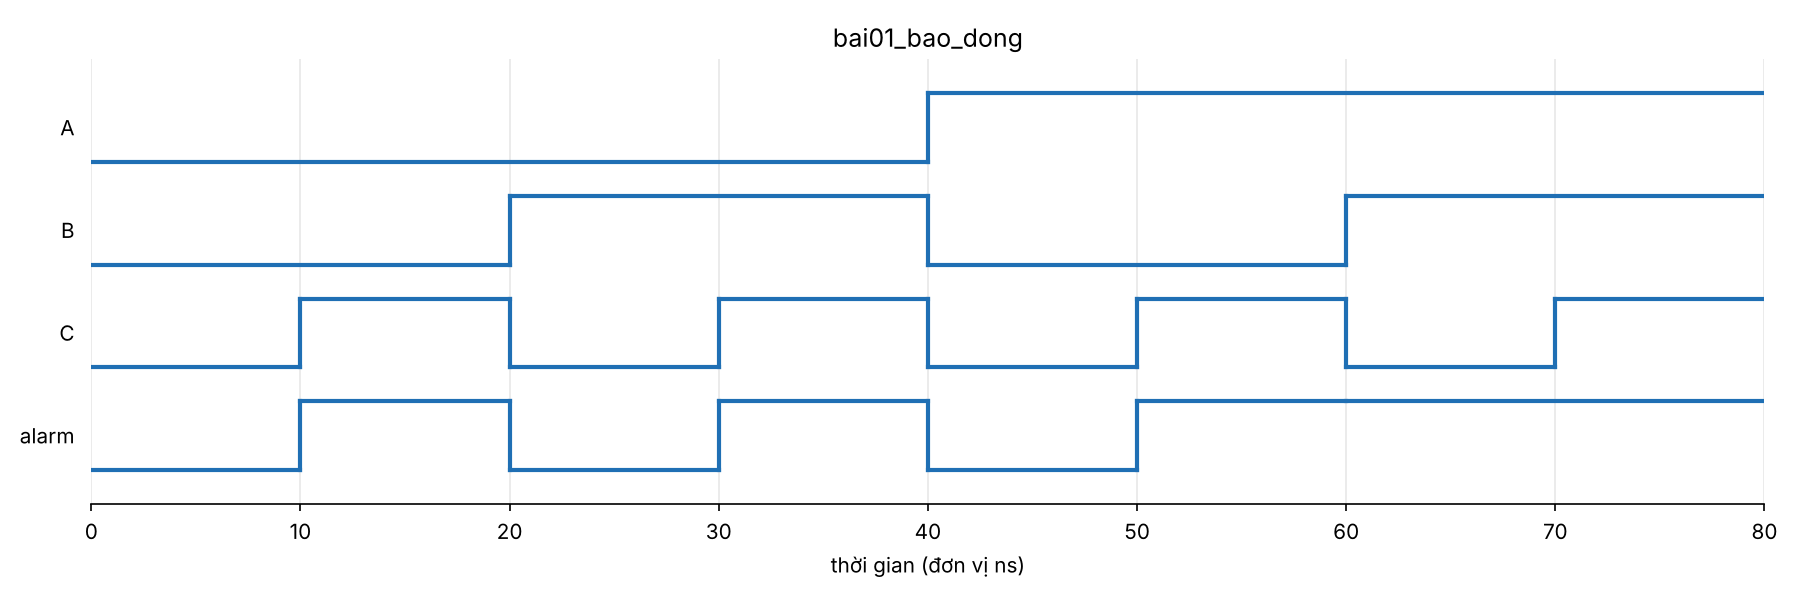
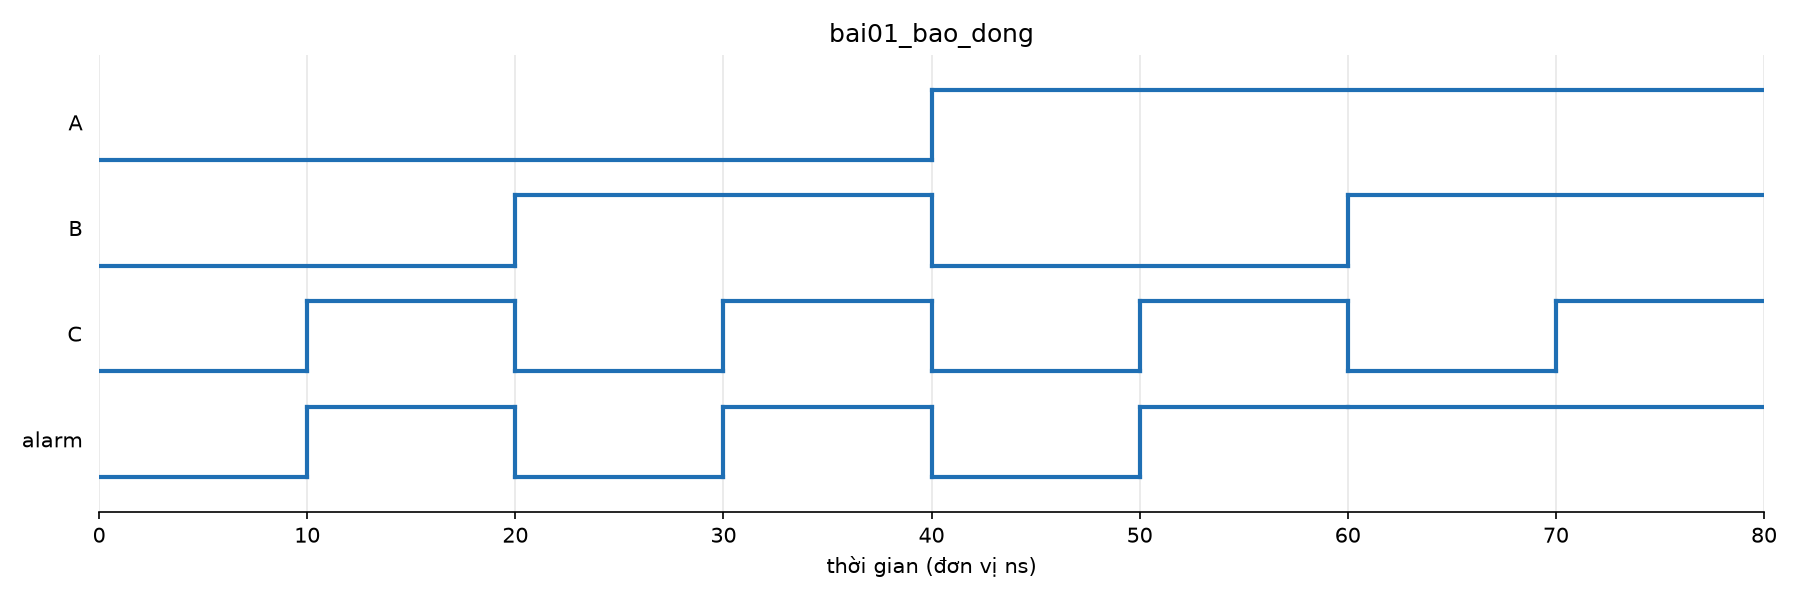
docs: cập nhật instructions 10/11 (phần Vi mạch, lịch học); song bài 1 chạy trên Mac

diff --git a/docs/project-instructions.md b/docs/project-instructions.md
@@ -14,6 +14,9 @@
 - **Vivado không cài được trên Mac M2** (chỉ có bản x86 Windows/Linux). MacBook Air M2, SSD 256 GB, trống 28 GiB
   (03/11). RTL + mô phỏng làm trên Mac bằng Icarus Verilog/Verilator; synthesis/nạp board dùng máy x86 hoặc Docker.
   Phương án đầy đủ: mục 5 của `reports/report-dot2-tuan01-20261104.md`.
+- **Công cụ RTL đã cài (10/11):** Icarus Verilog 13 + Surfer 0.7 (brew). Chạy bài: `./chay.sh <thư mục bài>` trong
+  `rtl/bai-tap-nhap-mon/`. Chưa cài Yosys. **Đang là prelab, chưa vào lab: mọi việc làm trên máy cá nhân**, không có
+  máy lab để cài Vivado. Mua SSD ngoài / Docker Vivado: **hoãn**, chờ Thầy cho biết khi nào bắt buộc cần Vivado.
 
 ## Thầy đã chốt — đừng hỏi lại, đừng làm ngược
 1. **Chưa cần tối ưu accuracy.** Không có ngưỡng phải đạt. 98,82% là chấp nhận được.
@@ -35,10 +38,11 @@ Gốc có 13 file `.py` + roadmap v3 + `.gitignore`. Còn lại nằm trong thư
 | `params/` | `weights.txt` (4.968) + `biases.txt` (50) + README bảng offset — **sinh tự động, không sửa tay** |
 | `golden/` | Ảnh mẫu + đầu ra PyTorch từng lớp + logit cả test set — chuẩn để so Python/C |
 | `golden_c/` | **Golden model C float32** `golden_model.c` + **int8** `golden_int8.c` + README. File chạy được không commit |
-| `docs/` | slide + 2 file Word nộp Thầy + ghi chú gặp Thầy + `tong-hop-video-thay.md` + **`on-tap-flow-7-buoc.md`** (tài liệu ôn theo slide 7 bước, 11 bài tính tay) + file này. `tien-do-on-tap.md` chỉ có trong Project |
+| `docs/` | slide + 2 file Word nộp Thầy + ghi chú gặp Thầy + `tong-hop-video-thay.md` + **`on-tap-flow-7-buoc.md`** (tài liệu ôn theo slide 7 bước, 11 bài tính tay) + **`on-tap-int8-ptq-qat-c.md`** (ôn PTQ/QAT/golden C int8, có tự kiểm + đáp án) + file này. `tien-do-on-tap.md` chỉ có trong Project |
 | `operators/` | README index + 6 file operator (công thức, mã giả, bẫy port C) |
 | `PDF/` | Bản in của `operators/*.md`, sinh bằng `tools/xuat_pdf.py` — sửa `.md` rồi chạy lại |
 | `reports/` | report tuần 1–6 (đợt 1) + đợt 2 tuần 1 (`report-dot2-tuan01-20261104.md`) |
+| `rtl/bai-tap-nhap-mon/` | 10 bài nhập môn Verilog Thầy giao 07/11. Mỗi bài 1 thư mục: RTL, testbench tự kiểm PASS/FAIL, `report.md`, `song.png`. `chay.sh` + `tools/ve_song.py` (VCD → PNG). `sim`, `*.vcd` không commit |
 | `study/` | bài tập tự luyện + script khảo sát, KHÔNG nộp |
 | `tools/` | `xuat_pdf.py` — sinh PDF từ `operators/*.md` |
 | `archive/`, `audio/`, `data/` | roadmap cũ, file NotebookLM, MNIST |
@@ -68,7 +72,7 @@ vào `sys.path` + `os.chdir` nên chạy ở đâu cũng được. Comment và c
 | `study/kiem_tra_tinh_tay.py` | Đáp án 11 bài tính tay của `docs/on-tap-flow-7-buoc.md` |
 | `study/tra-cuu-smallcnn.xlsx` | Excel tra cứu 1 điểm mọi lớp: địa chỉ in/w, dòng trong file txt, acc cộng dồn, so PyTorch |
 
-## Trạng thái (cập nhật 03/11/2026)
+## Trạng thái (cập nhật 10/11/2026)
 - **Kiến trúc đã CHỐT: `SmallCNN` — 5.018 params, test acc 98,82%.** (DigitCNN cũ: 206.922
   params, 99,05% — giữ làm mốc. Giảm 41,2 lần.)
 - Phase 1 ✅ validation set 50k/10k/10k, checkpoint theo best val acc.
@@ -95,7 +99,16 @@ vào `sys.path` + `os.chdir` nên chạy ở đâu cũng được. Comment và c
 - ✅ `study/tra-cuu-smallcnn.xlsx` — tra cứu 1 điểm conv1/conv2/conv3/maxpool/fc + argmax bằng số thật,
   có số dòng trong file txt; khớp PyTorch. Dùng để tự kiểm bài tính tay.
 - Đợt 2 bắt đầu 01/11. Báo cáo 04/11: `reports/report-dot2-tuan01-20261104.md`.
-- Chưa làm: RTL (bước tiếp theo, bắt đầu từ khối requantize); QAT nhiều seed + đối chứng QAT (từ tuần 6);
+- ✅ **GitHub đã đồng bộ (10/11)**: commit `fd4666a` (INT8, golden C int8, report, Bài 1) + `e1848b7`. Repo sạch.
+- **Đang ở: phần Vi mạch (IC).** 07/11 Thầy giao 10 bài nhập môn Verilog, deadline ≤ 1 tuần, mỗi bài có report +
+  "học được gì", **làm chậm, hiểu rõ rồi mới qua bài mới**. ✅ Bài 1 PASS 8/8 (chạy trên Mac 10/11); chờ user trả lời
+  4 câu tự kiểm rồi mới qua Bài 2.
+- 09/11 Thầy nhắn (cả nhóm): chuyển INT8 bằng PTQ rồi QAT + PPTX ý nghĩa và kết quả + đồng bộ GitHub → **đã có đủ**
+  (slide nộp: `docs/slide-quantization-tuan06.pptx`; slide 9–10 hơi cũ, user chọn không làm PPTX mới, ôn bằng chép tay).
+- Gặp Thầy dự kiến tuần sau (16/11 trở đi), lịch chưa chốt.
+- **Lịch học tuần 10–15/11:** T3 Bài 1 + ôn INT8 mục 1–4 + đọc `ptq_int8.py`; T4 ôn mục 5–7 + `qat.py` +
+  `golden_int8.c`; T5 Bài 2–3; T6 Bài 4–5; T7 Bài 6–7; CN Bài 8–10.
+- Chưa làm: RTL cho CNN (sau 10 bài, bắt đầu từ khối requantize); QAT nhiều seed + đối chứng QAT (từ tuần 6);
   cập nhật Word bước 3 với phần int8.
 
 ## Đường inference — chỉ 6 operator
@@ -171,6 +184,9 @@ bước vẫn nên chốt khi gặp lần tới.
 6. **Phương án Vivado trên Mac** (đề xuất: mô phỏng trên Mac ngay, synthesis ở máy x86/Docker) — hỏi 04/11.
 7. **RTL dùng tham số PTQ hay QAT** (đề xuất PTQ) — hỏi 04/11.
 8. Các câu tuần 6 (per-tensor/per-channel, ReLU gộp, đầu vào `uint8`, bề rộng M0, bỏ Model Composer) — chưa ghi nhận câu trả lời.
+9. **Phần IC tới bước nào thì bắt buộc phải có Vivado** (tổng hợp, timing, nạp board)? Giai đoạn này là **prelab,
+   chưa vào lab** → chỉ có máy cá nhân. Nếu bắt buộc thì phương án là Docker + SSD ngoài (APFS, ≥ 256 GB, nên 500 GB)
+   hoặc mượn máy x86 của bạn. Hỏi buổi gặp tới, cùng với câu 4 (board).
 
 ## Cách Claude hỗ trợ
 1. Xác định đang ở phase nào theo v3 trước khi trả lời.
@@ -189,6 +205,9 @@ bước vẫn nên chốt khi gặp lần tới.
     bản Word lệch nhau vì việc này. Không chạy hai phiên Claude song song trên cùng repo.
 11. Code và tài liệu viết **tiếng Việt có dấu** — kể cả comment, chuỗi in, README sinh tự động.
 12. Không để lại `.git/index.lock` — chỉ chạy `git --no-optional-locks status`, không tự commit.
+13. **Bài tập RTL — nhịp mỗi bài:** user lập bảng chân trị / sơ đồ trạng thái trước → Claude viết RTL + testbench tự
+    kiểm (bảng mong đợi viết tay theo đề, không chép biểu thức của mạch) → user chạy `chay.sh` trên Mac → user trả lời
+    câu tự kiểm → commit. **Không làm nhiều bài một lượt** (yêu cầu của Thầy: hiểu rõ rồi mới qua bài mới).
 
 ## Ràng buộc học thuật
 - Nộp tiến độ thứ Tư hàng tuần. Không có tiến độ → bị loại khỏi nhóm.
